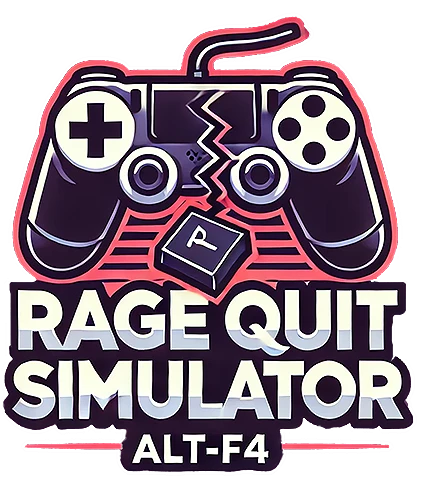
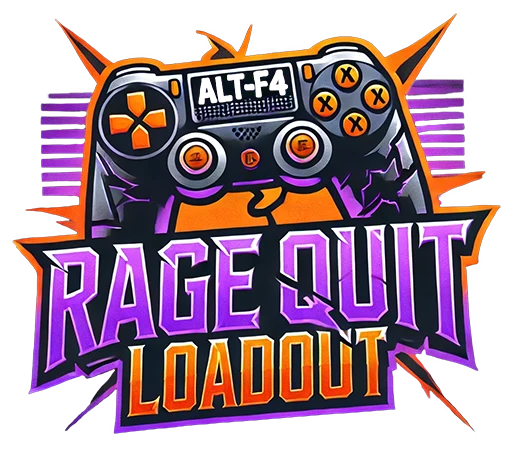
s

diff --git a/ragequit/styles.css b/ragequit/styles.css
@@ -2235,3 +2235,144 @@ img {
     margin-top: 15px !important;
   }
 }
+/* Fix for slot machine item alignment */
+.item-container {
+  /* Standardize dimensions */
+  height: 200px !important;
+  width: 140px !important;
+
+  /* Fix alignment issues */
+  display: flex !important;
+  flex-direction: column !important;
+  justify-content: space-between !important;
+  align-items: center !important;
+
+  /* Consistent padding */
+  padding: 10px 5px 15px 5px !important;
+  box-sizing: border-box !important;
+}
+
+.itemCol img,
+.item-container img {
+  /* Standardize image sizes */
+  width: 80px !important;
+  height: 80px !important;
+  object-fit: contain !important;
+  margin: 10px auto !important;
+  display: block !important;
+}
+
+.itemCol p,
+.item-container p {
+  /* Fix text alignment */
+  margin: 8px 0 !important;
+  padding: 0 5px !important;
+  text-align: center !important;
+  width: 100% !important;
+  font-size: 14px !important;
+  line-height: 1.2 !important;
+}
+
+/* Remove Copy Rage Loadout button under slot machine */
+button.copy-loadout:not(.history-entry .copy-loadout) {
+  display: none !important;
+}
+
+/* Fix clear history button functionality */
+button.clear-history-btn {
+  /* Make sure it's visible and clickable */
+  display: block !important;
+  position: relative !important;
+  z-index: 100 !important;
+  opacity: 1 !important;
+  cursor: pointer !important;
+  pointer-events: auto !important;
+}
+
+/* Improve Selected Class container */
+.selected-class-container {
+  /* Increase size and visibility */
+  width: 80% !important;
+  max-width: 280px !important;
+  margin: 15px auto !important;
+  padding: 10px !important;
+  transform: none !important;
+  font-size: 1.1rem !important;
+  border: 2px solid var(--neon-yellow) !important;
+  box-shadow: 0 0 10px rgba(255, 183, 0, 0.7) !important;
+}
+
+.selected-class-container h2,
+.selected-class-container span,
+#selected-class {
+  font-size: 1.1rem !important;
+  margin: 8px 0 !important;
+  padding: 0 !important;
+  color: var(--neon-yellow) !important;
+}
+
+/* Fix error message display */
+.error-message {
+  background-color: rgba(30, 30, 50, 0.95) !important;
+  border: 2px solid #ff3d00 !important;
+  border-radius: 8px !important;
+  padding: 15px !important;
+  color: white !important;
+  text-align: center !important;
+  position: fixed !important;
+  top: 50% !important;
+  left: 50% !important;
+  transform: translate(-50%, -50%) !important;
+  z-index: 9999 !important;
+  max-width: 80% !important;
+  box-shadow: 0 0 20px rgba(0, 0, 0, 0.5) !important;
+}
+
+.error-message button {
+  background: linear-gradient(135deg, #8a2be2, #ff00ff) !important;
+  color: white !important;
+  border: none !important;
+  padding: 8px 20px !important;
+  border-radius: 6px !important;
+  margin-top: 10px !important;
+  cursor: pointer !important;
+  font-weight: bold !important;
+}
+
+/* Fix button behavior for non-functioning components */
+button.clear-history-btn,
+button[onclick*="clearHistory"] {
+  position: relative !important;
+  background: linear-gradient(45deg, #ff4444, #ff8844) !important;
+  border: none !important;
+  color: white !important;
+  padding: 10px 20px !important;
+  border-radius: 8px !important;
+  cursor: pointer !important;
+  font-size: 16px !important;
+  margin-top: 10px !important;
+  transition: all 0.3s ease !important;
+  display: inline-block !important;
+}
+
+button.clear-history-btn:hover,
+button[onclick*="clearHistory"]:hover {
+  transform: translateY(-2px) !important;
+  box-shadow: 0 4px 8px rgba(0, 0, 0, 0.2) !important;
+}
+
+/* Additional mobile responsiveness */
+@media screen and (max-width: 768px) {
+  .selected-class-container {
+    width: 70% !important;
+    max-width: 250px !important;
+    font-size: 1rem !important;
+    padding: 8px !important;
+  }
+
+  .selected-class-container h2,
+  .selected-class-container span,
+  #selected-class {
+    font-size: 1rem !important;
+  }
+}

diff --git a/ragequit/index.html b/ragequit/index.html
@@ -16,7 +16,7 @@
     </script>
     <meta charset="UTF-8" />
     <meta name="viewport" content="width=device-width, initial-scale=1.0, maximum-scale=1.0, user-scalable=no">    <title>
-      The Finals RAGE QUIT SIMULATOR | The Most Frustrating Loadouts
+      The Finals RAGE QUIT Loadout | The Most Frustrating Loadouts
     </title>
     <meta
       name="description"
@@ -27,7 +27,7 @@
       {
         "@context": "https://schema.org",
         "@type": "WebPage",
-        "name": "The Finals Rage Quit Simulator",
+        "name": "The Finals Rage Quit Loadout",
         "description": "The worst possible loadouts and handicaps in The Finals game, guaranteed to make you rage quit.",
         "url": "https://www.thefinalsloadout.com/ragequit",
         "image": "https://www.thefinalsloadout.com/images/rage-quit.webp",
@@ -68,7 +68,7 @@
   <nav class="main-nav">
     <a href="https://thefinalsloadout.com/">Home</a>
     <a href="https://thefinalsloadout.com/ragequit/" class="active"
-      >Rage Quit Simulator</a
+      >Rage Quit Loadout</a
     >
     <a href="https://thefinalsloadout.com/patch-notes/">Patch Notes</a>
     <a href="https://thefinalsloadout.com/feedback/">Feedback</a>
@@ -84,20 +84,13 @@
         height="auto"
         onerror="this.src='../images/the-finals.webp'"
       />
-      <h1 class="mainTitle">THE FINALS RAGE QUIT SIMULATOR</h1>
-      <h2 class="subTitle">Maximum Frustration Guaranteed!!</h2>
+      <h1 class="mainTitle">Maximum Frustration Guaranteed!!</h1>
+      <h2 class="subTitle">Terrible loadout plus a unique handicap.</h2>
     </div>
   </header>
 
   <main class="mainContent">
-    <div class="container">
-      <div class="rage-intro">
-        <p>
-          The worst possible loadouts
-          combined with a handicap challenge that
-          will push you to your limits!
-        </p>
-      </div>
+
 
       <div class="rage-button-container">
         <button id="rage-quit-btn" class="rage-quit-button">

diff --git a/index.html b/index.html
@@ -105,7 +105,7 @@
   <audio id="clickSound" src="sounds/click.mp3" preload="auto"></audio>
   <nav class="main-nav">
     <a href="https://thefinalsloadout.com/" class="active">Home</a>
-    <a href="https://thefinalsloadout.com/ragequit/">Rage Quit Simulator</a>
+    <a href="https://thefinalsloadout.com/ragequit/">Rage Quit Loadout</a>
     <a href="https://thefinalsloadout.com/patch-notes/">Patch Notes</a>
     <a href="https://thefinalsloadout.com/feedback/">Feedback</a>
   </nav>
@@ -218,7 +218,7 @@
 
           <div class="btnRow">
             <a href="ragequit/" id="rageQuitButton" class="rage-quit-link">
-              <span class="rage-icon">💢</span> Rage Quit Simulator <span class="rage-icon">💢</span>
+              <span class="rage-icon">💢</span> Rage Quit Loadout <span class="rage-icon">💢</span>
             </a>
           </div>
         </div>
